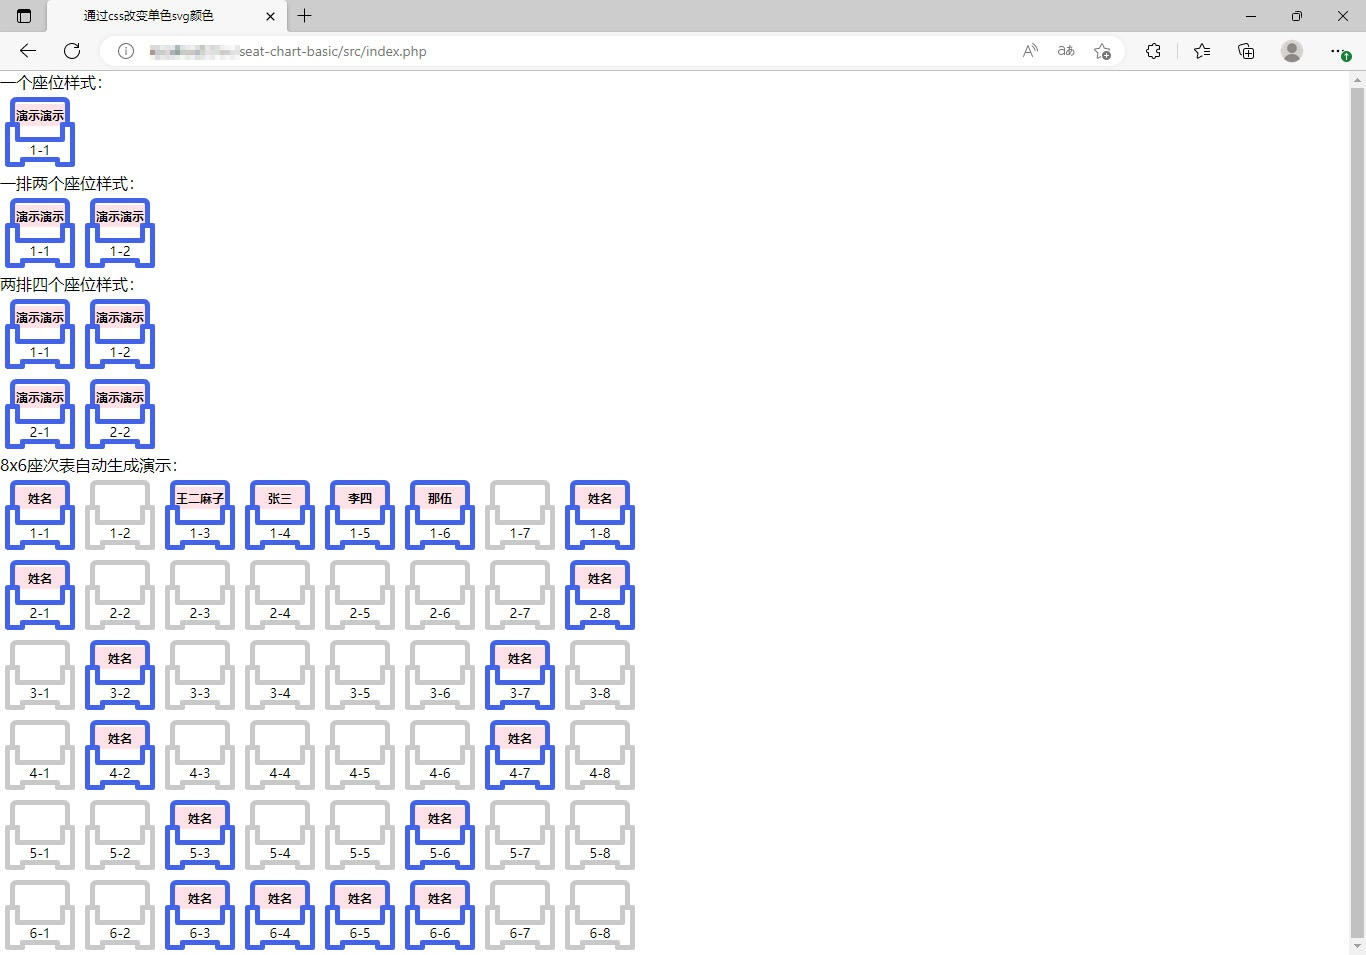
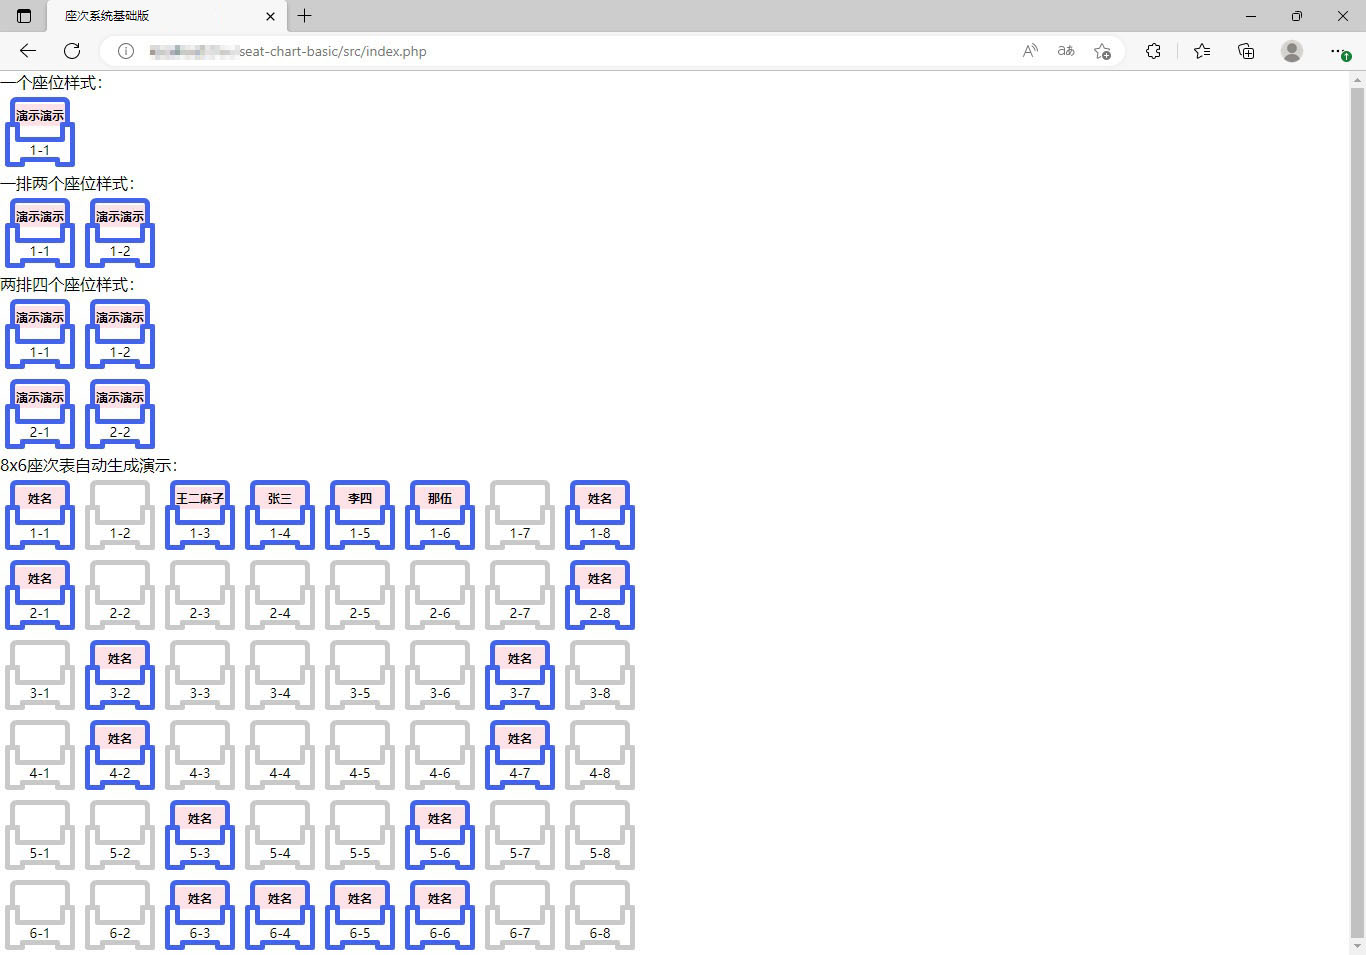
Update item

Changed region(s): [[0.0307, 0.0, 0.1537, 0.0304]]

diff --git a/index.html b/index.html
@@ -1,0 +1,96 @@
+<!DOCTYPE html>
+<html>
+<head>
+<meta charset="UTF-8">
+<meta name="Author" content="壹吐·ONETO">
+<title>座次系统基础版(HTML+JavaScript+CSS)</title>
+<style>
+body {
+    margin: 0px;
+    padding: 0px;
+    position: absolute;
+}
+.seat {
+    width: 80px;
+    height: 80px;
+    float: left;
+}
+.seatIco {
+    position: absolute;
+    width: 80px;
+    height: 80px;
+    overflow: hidden;
+}
+.seatIco > img {
+    width: 100%;
+    height: 100%;
+    position: absolute;
+    left: -80px;
+    top: 0;
+    filter: drop-shadow(#C9C9C9 80px 0);
+}
+.active > img {
+    filter: drop-shadow(#4364E8 80px 0);
+}
+.name {
+    width: 80px;
+    text-align: center;
+    margin-top: 12px;
+}
+.pink {
+    background-color: #FFE1E8;
+    font-size: 12px;
+    color: #000000;
+    padding: 3px;
+    font-weight: 600;
+    width: 50px;
+    display: block;
+    margin: auto;
+}
+.null {
+    height: 22px;
+    display: block;
+}
+.no {
+    width: 80px;
+    text-align: center;
+    margin-top: 15px;
+    font-size: 13px;
+}
+.row {
+    display: flex;
+}
+</style>
+</head>
+<body>
+<script>
+var data = [
+    ["姓名", "","王二麻子", "张三", "李四", "那伍", "", "姓名"],
+    ["姓名", "","", "", "", "", "", "姓名"],
+    ["", "姓名","", "", "", "", "姓名", ""],
+    ["", "姓名","", "", "", "", "姓名", ""],
+    ["", "","姓名", "", "", "姓名", "", ""],
+    ["", "","姓名", "姓名", "姓名", "姓名", "", ""],
+];
+
+var seat = "";
+var seatActive = "";
+var nameClass = "";
+for (var i = 0; i < data.length; i++) {
+    document.write('<div class="row">');
+    var newArr = data[i];
+    for (var j = 0; j < newArr.length; j++) {
+        if (newArr[j].length == 0) {
+            seatActive = '';
+            nameClass = ' class="null"';
+        } else {
+            seatActive = ' active';
+            nameClass = ' class="pink"';
+        }
+        document.write('<div class="seat"><div class="seatIco' + seatActive + '"><img src="./images/seat.svg"></div><div class="name"><span' + nameClass + '>' + newArr[j] + '</span></div><div class="no">' + (i + 1) + '-' + (j + 1) + '</div></div>');
+    }
+    document.write('</div>');
+}
+</script>
+</body>
+</html>

diff --git a/index.php b/index.php
@@ -1,0 +1,106 @@
+<!doctype html>
+<html lang="en">
+<head>
+<meta charset="UTF-8">
+<meta name="Author" content="壹吐·ONETO">
+<title>座次系统基础版</title>
+<style>
+body {
+    margin: 0px;
+    padding: 0px;
+    position: absolute;
+}
+.seat {
+    width: 80px;
+    height: 80px;
+    float: left;
+}
+.seatIco {
+    position: absolute;
+    width: 80px;
+    height: 80px;
+    overflow: hidden;
+}
+.seatIco > img {
+    width: 100%;
+    height: 100%;
+    position: absolute;
+    left: -80px;
+    top: 0;
+    filter: drop-shadow(#C9C9C9 80px 0);
+}
+.active > img {
+    filter: drop-shadow(#4364E8 80px 0);
+}
+.name {
+    width: 80px;
+    text-align: center;
+    margin-top: 12px;
+}
+.pink {
+    background-color: #FFE1E8;
+    font-size: 12px;
+    color: #000000;
+    padding: 3px;
+    font-weight: 600;
+    width: 50px;
+    display: block;
+    margin: auto;
+}
+.null {
+    height: 22px;
+    display: block;
+}
+.no {
+    width: 80px;
+    text-align: center;
+    margin-top: 15px;
+    font-size: 13px;
+}
+.row {
+    display: flex;
+}
+</style>
+</head>
+<body>
+<?php
+// 定义姓名数据
+$data = array(
+    array("姓名", "","王二麻子", "张三", "李四", "那伍", "", "姓名"),
+    array("姓名", "","", "", "", "", "", "姓名"),
+    array("", "姓名","", "", "", "", "姓名", ""),
+    array("", "姓名","", "", "", "", "姓名", ""),
+    array("", "","姓名", "", "", "姓名", "", ""),
+    array("", "","姓名", "姓名", "姓名", "姓名", "", ""),
+);
+// 单行位子渲染
+function danhangweizi($data, $hang) {
+    $weishu = count($data[$hang]);
+    $danhangweizi = '';
+    for ($s = 0; $s < $weishu; $s++) {
+        $xingming = $data[$hang][$s];
+        $danhangweizi .= '
+            <div class="seat">
+                <div class="seatIco' . (empty($xingming) ? '' : ' active') . '">
+                    <img src="./images/seat.svg">
+                </div>
+                <div class="name">
+                    <span' . (empty($xingming) ? ' class="null"' : ' class="pink"') . '>' . $xingming . '</span>
+                </div>
+                <div class="no">' . ($hang + 1) . '-' . ($s + 1) . '</div>
+            </div>
+        ';
+    }
+    return $danhangweizi;
+}
+
+// 计算行数
+$hangshu = count($data);
+
+// 遍历所有行
+for ($i = 0; $i < $hangshu; $i++) {
+    echo '<div class="row">' . danhangweizi($data, $i) . '</div>';
+}
+?>
+</body>
+</html>
